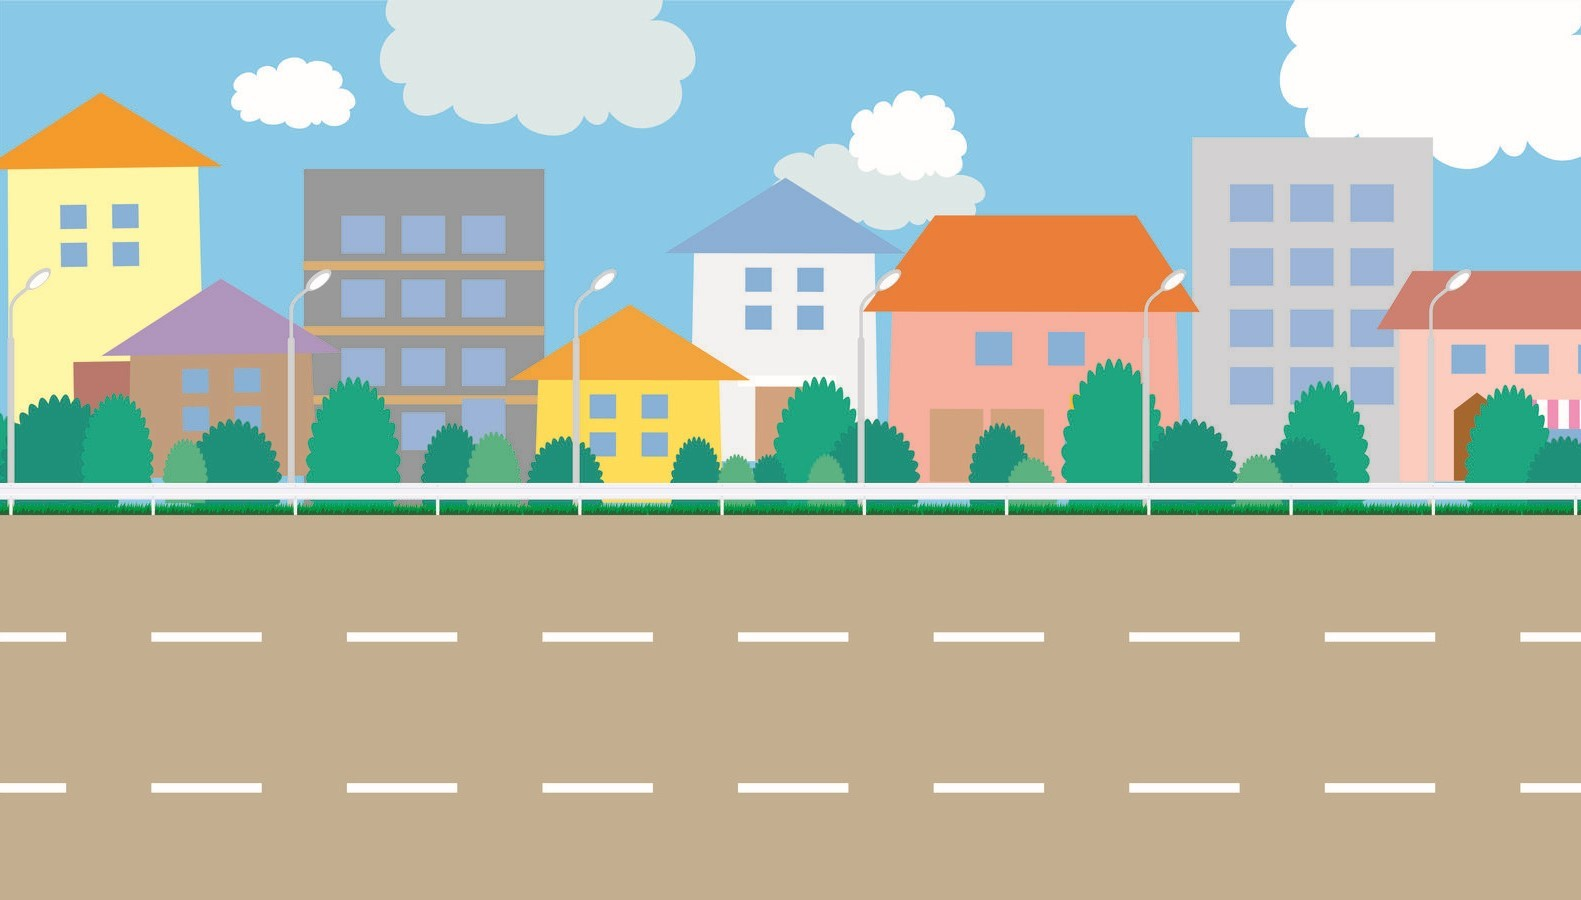
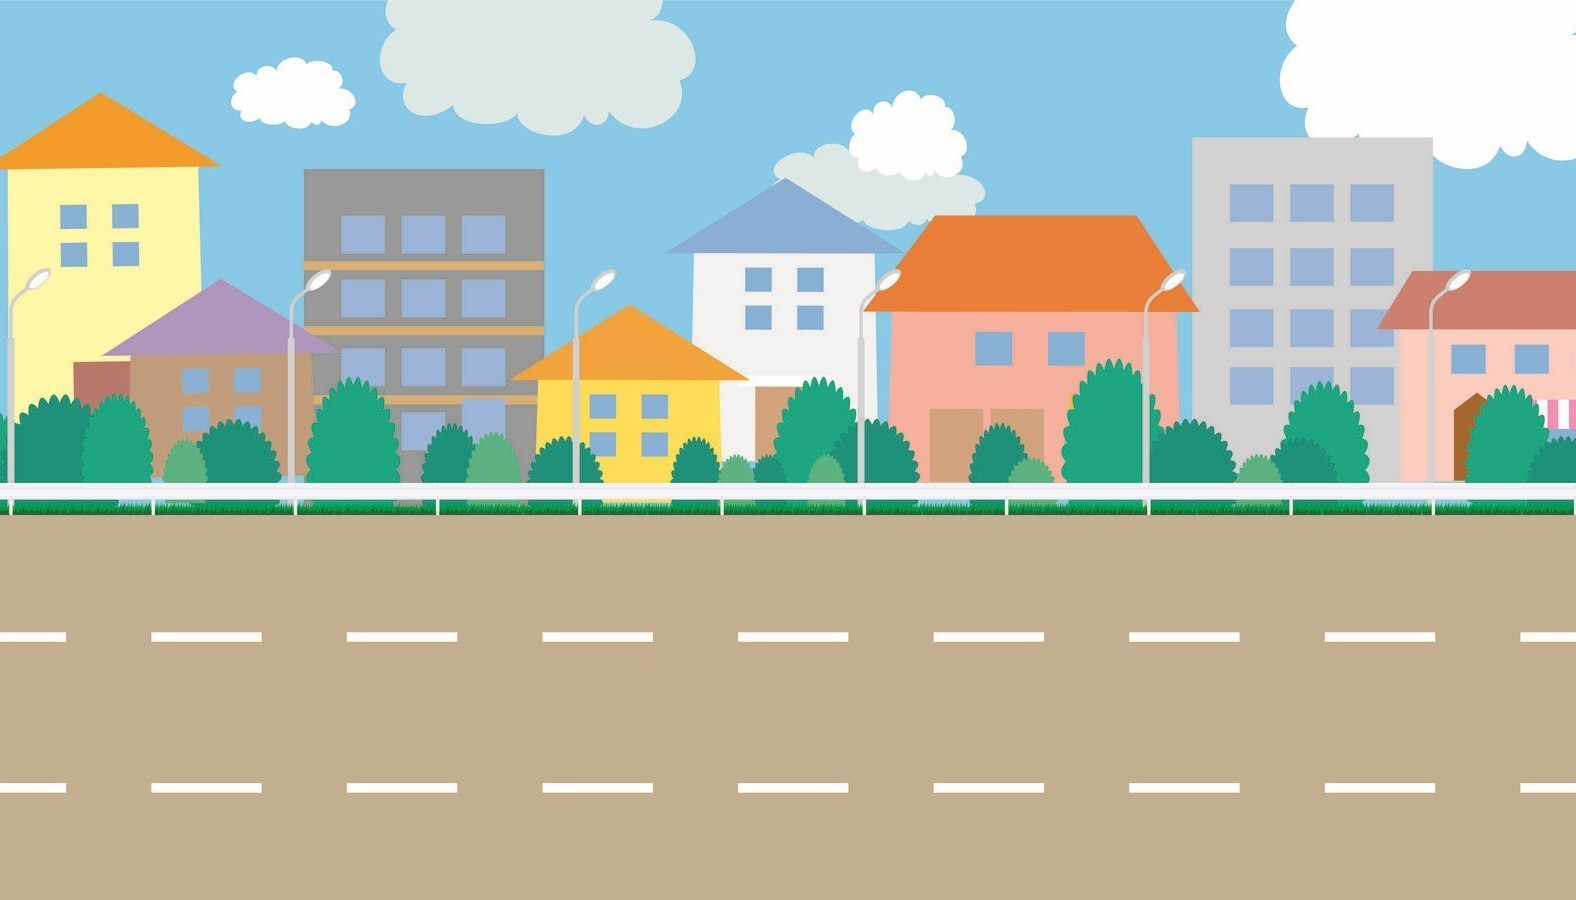
追加機能改訂版background2

diff --git a/GTC.py b/GTC.py
@@ -9,20 +9,21 @@ def main():
     pg.display.set_caption("はばたけ！こうかとん")
     screen = pg.display.set_mode((800, 600))
     clock  = pg.time.Clock()
-    bg_img = pg.image.load("fig/road.jpg")
+    bg_img = pg.image.load("fig/road4.jpg")
     bg_img_2 = pg.transform.flip(bg_img,True,False)
-    ko_img = pg.image.load("fig/car2.png")
+    ko_img = pg.image.load("fig/car4.png")
+    ko_img = pg.transform.flip(ko_img,True,False)
     ko_rect = ko_img.get_rect() #こうかとんのRect抽出
     ko_rect.center = 300, 200
     tmr = 0
     while True:
         for event in pg.event.get():
             if event.type == pg.QUIT: return
-        x = tmr%3190
+        x = tmr%3706
         screen.blit(bg_img, [-x, 0])
-        screen.blit(bg_img_2,[-x+1576,0])
-        screen.blit(bg_img, [-x+3152, 0])
-        screen.blit(bg_img_2,[-x+4728,0])
+        screen.blit(bg_img_2,[-x+1853,0])
+        screen.blit(bg_img, [-x+3706, 0])
+        screen.blit(bg_img_2,[-x+5559,0])
         key_lst = pg.key.get_pressed()
         mx = 0
         my = 0
